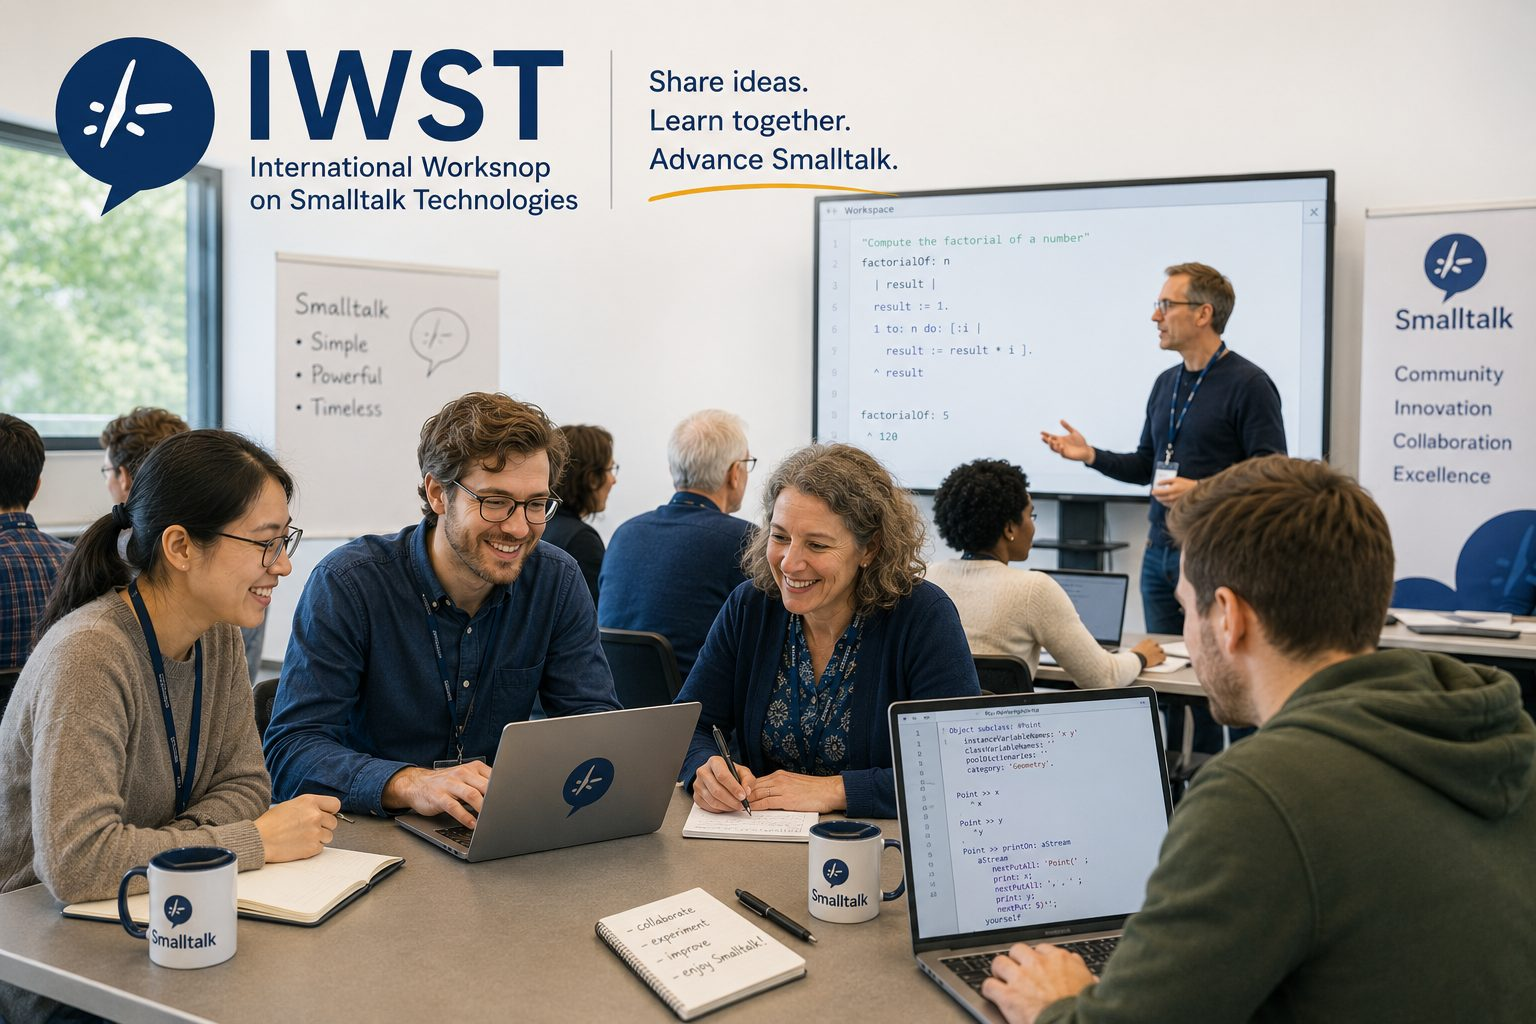
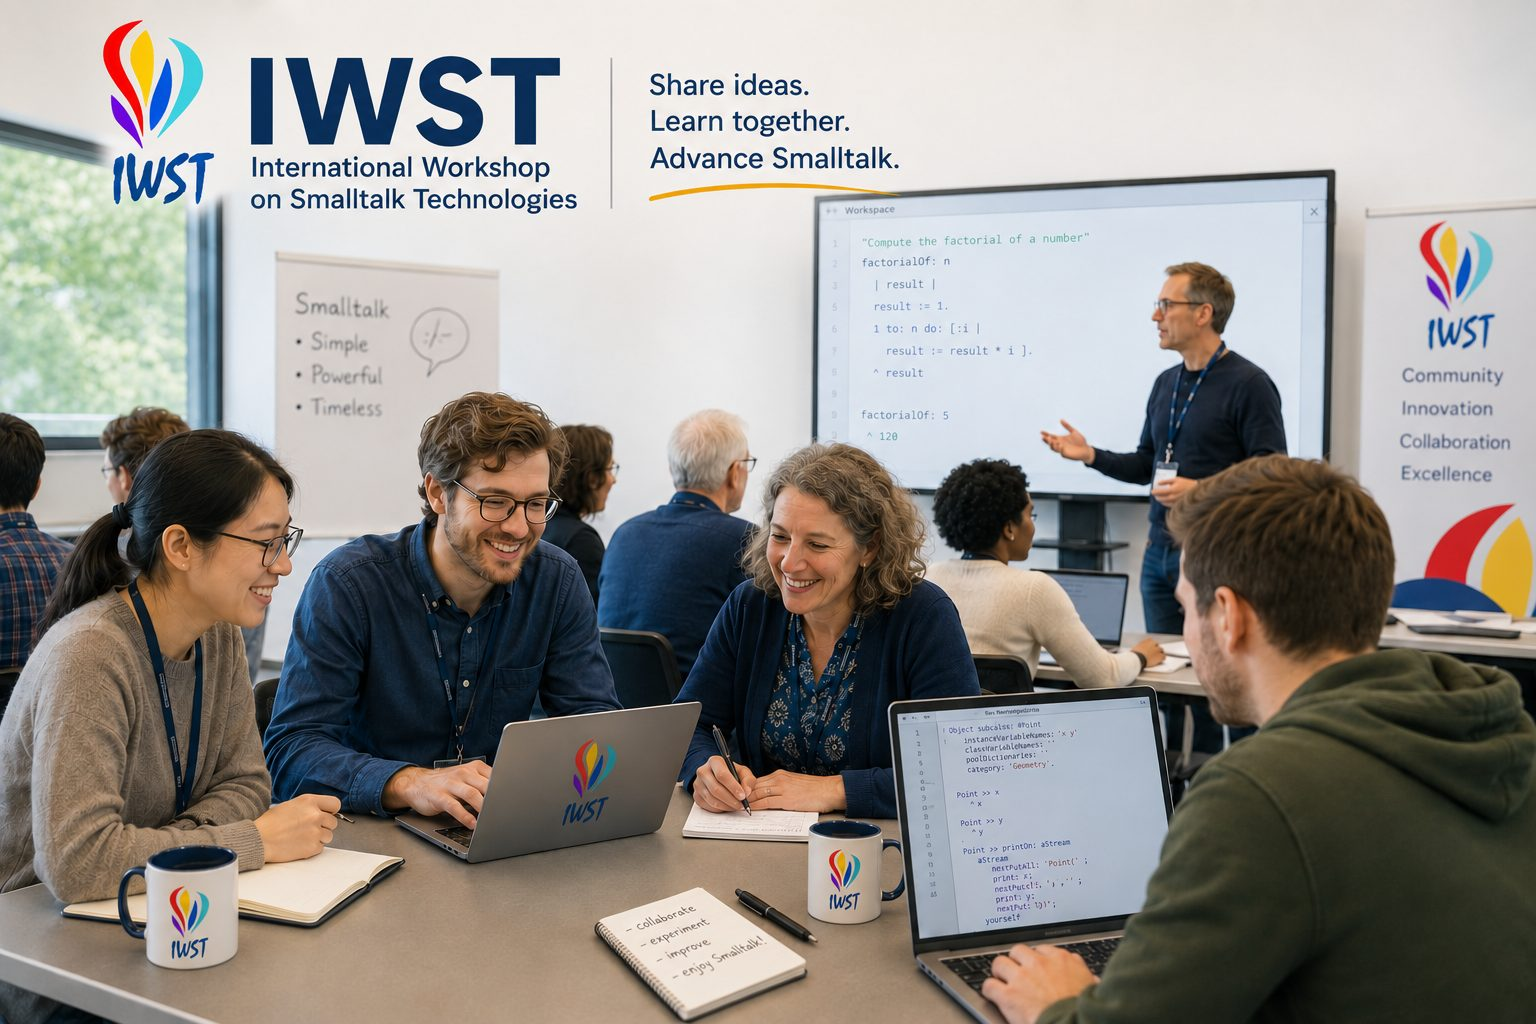
Change the workshop route to iwst, update chairs, and update the IWST tile image

diff --git a/app/data/organising-committee.js b/app/data/organising-committee.js
@@ -1,38 +1,44 @@
 // Data for the Organising Committee page.
 //
-// Chair names are placeholders until the roles are filled -- update each
-// entry's `names` once real chairs are confirmed, and remove the
+// Each chair is `{ name, affiliation }`; `affiliation` (organisation and/or
+// country) is optional and shown on a second line. Jane/John Doe entries are
+// placeholders until the roles are filled -- update each entry's `names` once
+// real chairs are confirmed, and remove the
 // "not selected yet" notice on the page once they are.
 
 export default [
   {
     id: 'conference-chairs',
     title: 'Conference Chairs',
-    names: ['Jane Doe', 'John Doe'],
+    names: [{ name: 'Jane Doe' }, { name: 'John Doe' }],
   },
   {
     id: 'innovation-award-chairs',
     title: 'Innovation Award Chairs',
-    names: ['Jane Doe', 'John Doe'],
+    names: [{ name: 'Jane Doe' }, { name: 'John Doe' }],
   },
   {
     id: 'iwst-chairs',
     title: 'IWST 2027 Chairs',
-    names: ['Jane Doe', 'John Doe'],
+    names: [
+      { name: 'Nahuel Palumbo', affiliation: 'Argentina' },
+      { name: 'Guillermo Polito', affiliation: 'Inria Lille, France' },
+      { name: 'Gordana Rakić', affiliation: 'University of Novi Sad, Serbia' },
+    ],
   },
   {
     id: 'newcomers-chairs',
     title: 'Newcomers Chairs',
-    names: ['Jane Doe', 'John Doe'],
+    names: [{ name: 'Jane Doe' }, { name: 'John Doe' }],
   },
   {
     id: 'administration-chair',
     title: 'Administration Chair',
-    names: ['Jane Doe'],
+    names: [{ name: 'Pablo Tesone', affiliation: 'Pharo Consortium, France' }],
   },
   {
     id: 'technology-chairs',
     title: 'Technology Chairs',
-    names: ['Jane Doe', 'John Doe'],
+    names: [{ name: 'Jane Doe' }, { name: 'John Doe' }],
   },
 ];

diff --git a/app/data/home-tiles.js b/app/data/home-tiles.js
@@ -66,20 +66,20 @@ export default [
     id: 'registration',
     title: 'Conference Registration',
     summary: `Register to attend ESUG ${currentEdition.year}.`,
-    date: `Early registration deadline: 1 April ${currentEdition.year}`,
+    date: `Submission deadline: 14 March ${currentEdition.year}`,
     active: false,
     badge: `March ${currentEdition.year}`,
     routeName: 'registration',
     image: '/images/tiles/registration.jpg',
   },
   {
-    id: 'workshop',
+    id: 'iwst',
     title: 'International Workshop on Smalltalk Technologies',
-    summary: 'IWST, co-located with the main conference.',
-    date: `Early registration deadline: 1 April ${currentEdition.year}`,
+    summary: 'Co-located with the main conference.',
+    date: `Submission deadline: 14 March ${currentEdition.year}`,
     active: false,
     badge: `March ${currentEdition.year}`,
-    routeName: 'workshop',
+    routeName: 'iwst',
     image: '/images/tiles/workshop.jpg',
   },
   {

diff --git a/tests/unit/routes/iwst-test.js b/tests/unit/routes/iwst-test.js
@@ -1,11 +1,11 @@
 import { module, test } from 'qunit';
 import { setupTest } from 'esug-2027-app/tests/helpers';
 
-module('Unit | Route | workshop', function (hooks) {
+module('Unit | Route | iwst', function (hooks) {
   setupTest(hooks);
 
   test('it exists', function (assert) {
-    let route = this.owner.lookup('route:workshop');
+    let route = this.owner.lookup('route:iwst');
     assert.ok(route);
   });
 });

diff --git a/app/styles/app.css b/app/styles/app.css
@@ -306,7 +306,22 @@ body {
 }
 
 .committee-chair-names li {
-  margin: 0.35rem 0;
+  margin: 0;
+}
+
+.committee-chair-names li + li {
+  margin-top: 0.9rem;
+}
+
+.committee-chair-name {
+  display: block;
+}
+
+.committee-chair-affiliation {
+  display: block;
+  margin-top: 0.15rem;
+  font-size: 0.85rem;
+  opacity: 0.75;
 }
 
 /* Practical Information page: lunch menu placeholder */

diff --git a/app/router.js b/app/router.js
@@ -12,7 +12,7 @@ Router.map(function () {
   this.route('travel');
   this.route('accommodation');
   this.route('call-for-presentations');
-  this.route('workshop');
+  this.route('iwst');
   this.route('award');
   this.route('showcase');
   this.route('registration');

diff --git a/app/routes/iwst.js b/app/routes/iwst.js
@@ -1,0 +1,3 @@
+import Route from '@ember/routing/route';
+
+export default class IwstRoute extends Route {}
